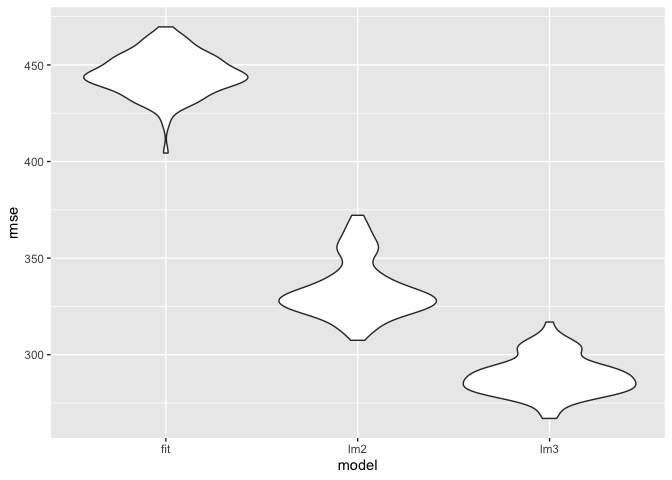
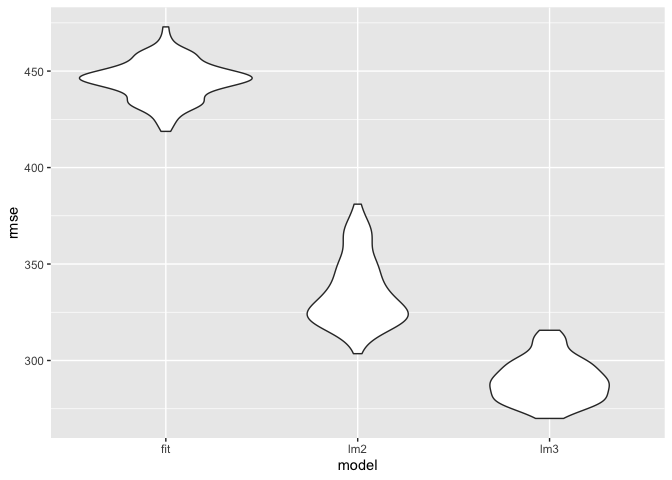
Added the plot for the log B0* B1 by rmse

diff --git a/Homework-6.md b/Homework-6.md
@@ -69,7 +69,7 @@ plot1
 ![](Homework-6_files/figure-gfm/unnamed-chunk-2-1.png)<!-- -->
 
 ``` r
-#Comparing my model to two others
+#Modeling the two other models that are given
 
 linear_mod2 = lm(bwt ~ blength + gaweeks, data = birthweight)
 linear_mod3 = lm(bwt ~ bhead + blength + babysex + bhead*blength + bhead*babysex + blength*babysex + bhead*blength*babysex, data = birthweight)
@@ -108,7 +108,7 @@ cv_df %>%
 ![](Homework-6_files/figure-gfm/unnamed-chunk-3-1.png)<!-- -->
 
 ``` r
-#I can see that my linear model three (lm3) is the best one because it produces the lowest root mean square error. 
+#I can see that linear model three (lm3) is the best one because it produces the lowest root mean square error. 
 ```
 
 # Problem 2
@@ -181,15 +181,18 @@ boot_straps_data =
   )
 
 #Getting the r-hat-squared
+weather_bootstrap = weather_df %>% 
+  modelr::bootstrap(n = 5000) 
 
-weather_df %>% 
-  modelr::bootstrap(n = 5000) %>% 
+weather1 = weather_bootstrap %>% 
   mutate(
     models = map(strap, ~lm(tmax ~ tmin, data =.x)),
     results = map(models, broom::glance)) %>% 
     select(-strap, -models) %>% 
     unnest(results) %>% 
-    janitor::clean_names() %>% 
+    janitor::clean_names() 
+
+weather1 %>% 
   ggplot(aes(x = r_squared)) + #create a density plot of r-squared
   geom_density()
 ```
@@ -197,5 +200,46 @@ weather_df %>%
 ![](Homework-6_files/figure-gfm/unnamed-chunk-4-2.png)<!-- -->
 
 ``` r
-#Getting the log(β̂ 0∗β̂ 1)
+#getting quantiles/ 95% CI
+weather1 %>% 
+  pull(r_squared) %>% 
+quantile(., probs = c(0.025, 0.975, 0.95), na.rm = TRUE)
 ```
+
+    ##      2.5%     97.5%       95% 
+    ## 0.8944239 0.9267152 0.9246803
+
+``` r
+#Getting the log(β̂ 0∗β̂ 1)
+data1 = 
+weather_bootstrap%>% 
+  mutate(
+    models = map(strap, ~lm(tmax ~ tmin, data =.x)),
+    results = map(models, broom::tidy)) %>% 
+    select(-strap, -models) %>% 
+    unnest(results) %>% 
+   janitor::clean_names() %>% 
+   select(id, term, estimate) %>% 
+   # spread(key = term, value = estimate)
+  pivot_wider(
+    names_from = "term",
+    values_from = "estimate"
+  )  %>%
+  rename(intercept= '(Intercept)') %>% 
+  mutate(log_calc = log(intercept*tmin)) 
+
+data1 %>% 
+   pull(log_calc) %>% 
+  quantile(., probs = c(0.025, 0.975, 0.95), na.rm = TRUE)
+```
+
+    ##     2.5%    97.5%      95% 
+    ## 1.965795 2.059422 2.051686
+
+``` r
+data1 %>% 
+  ggplot(aes(x = log_calc)) + #create a density plot of r-squared
+  geom_density()
+```
+
+![](Homework-6_files/figure-gfm/unnamed-chunk-4-3.png)<!-- -->
